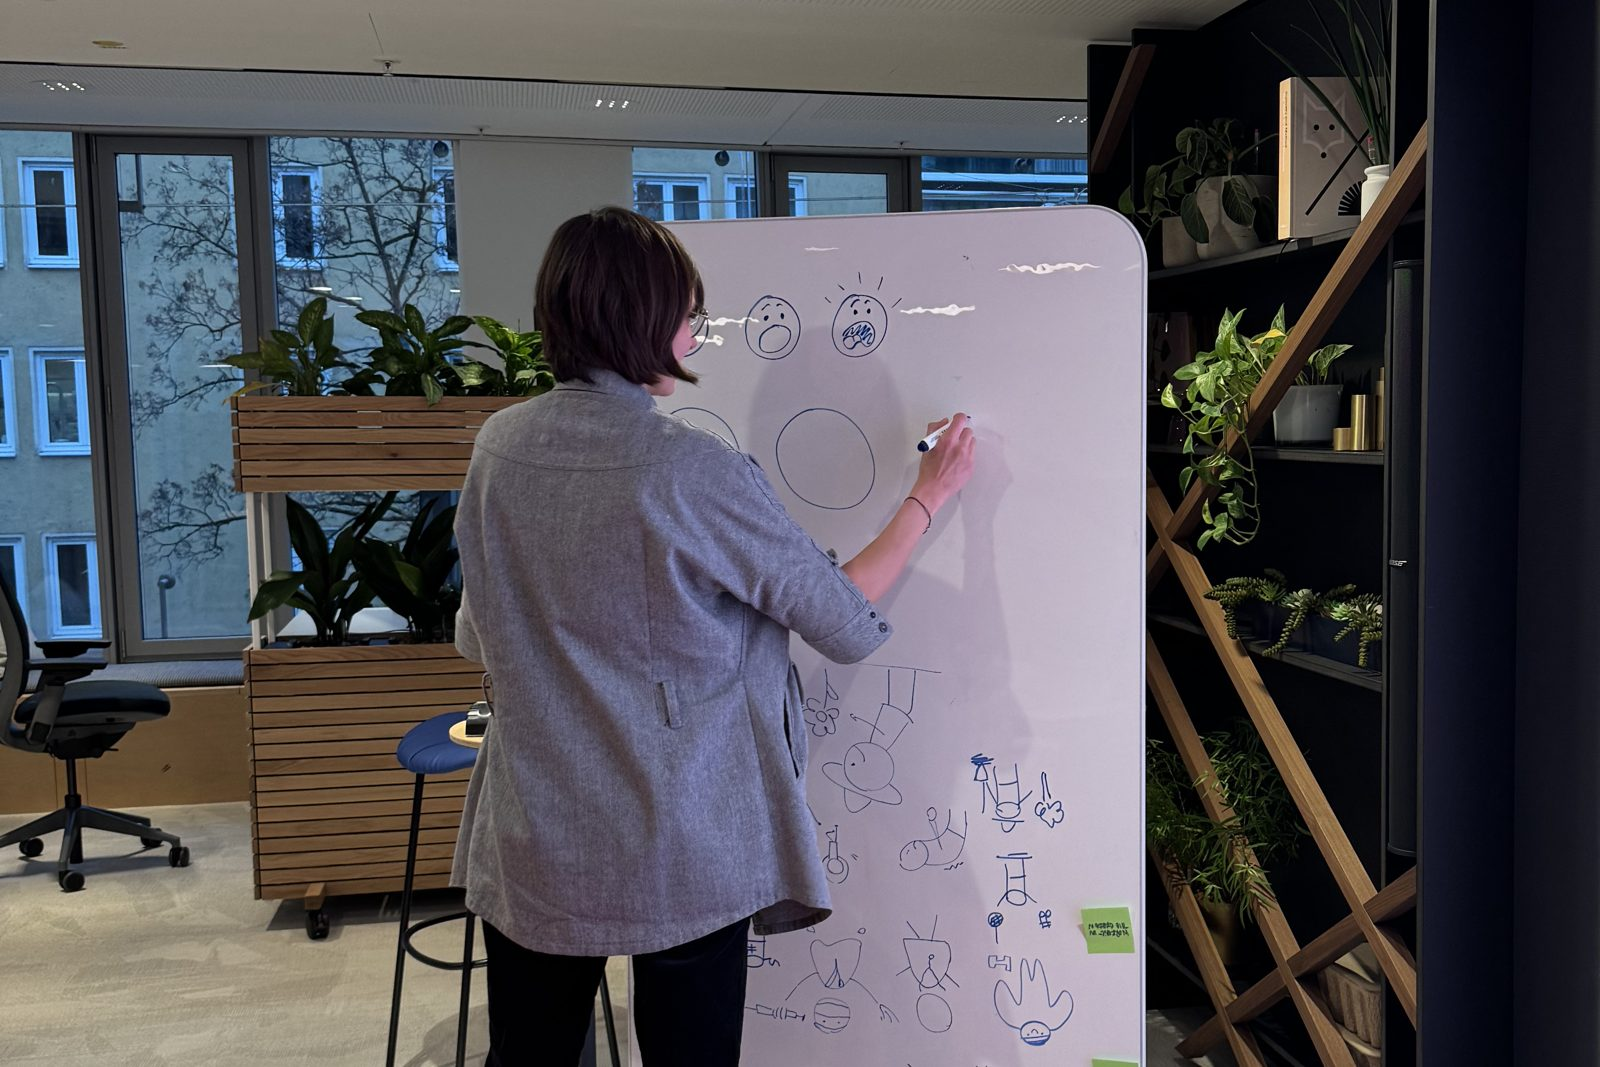
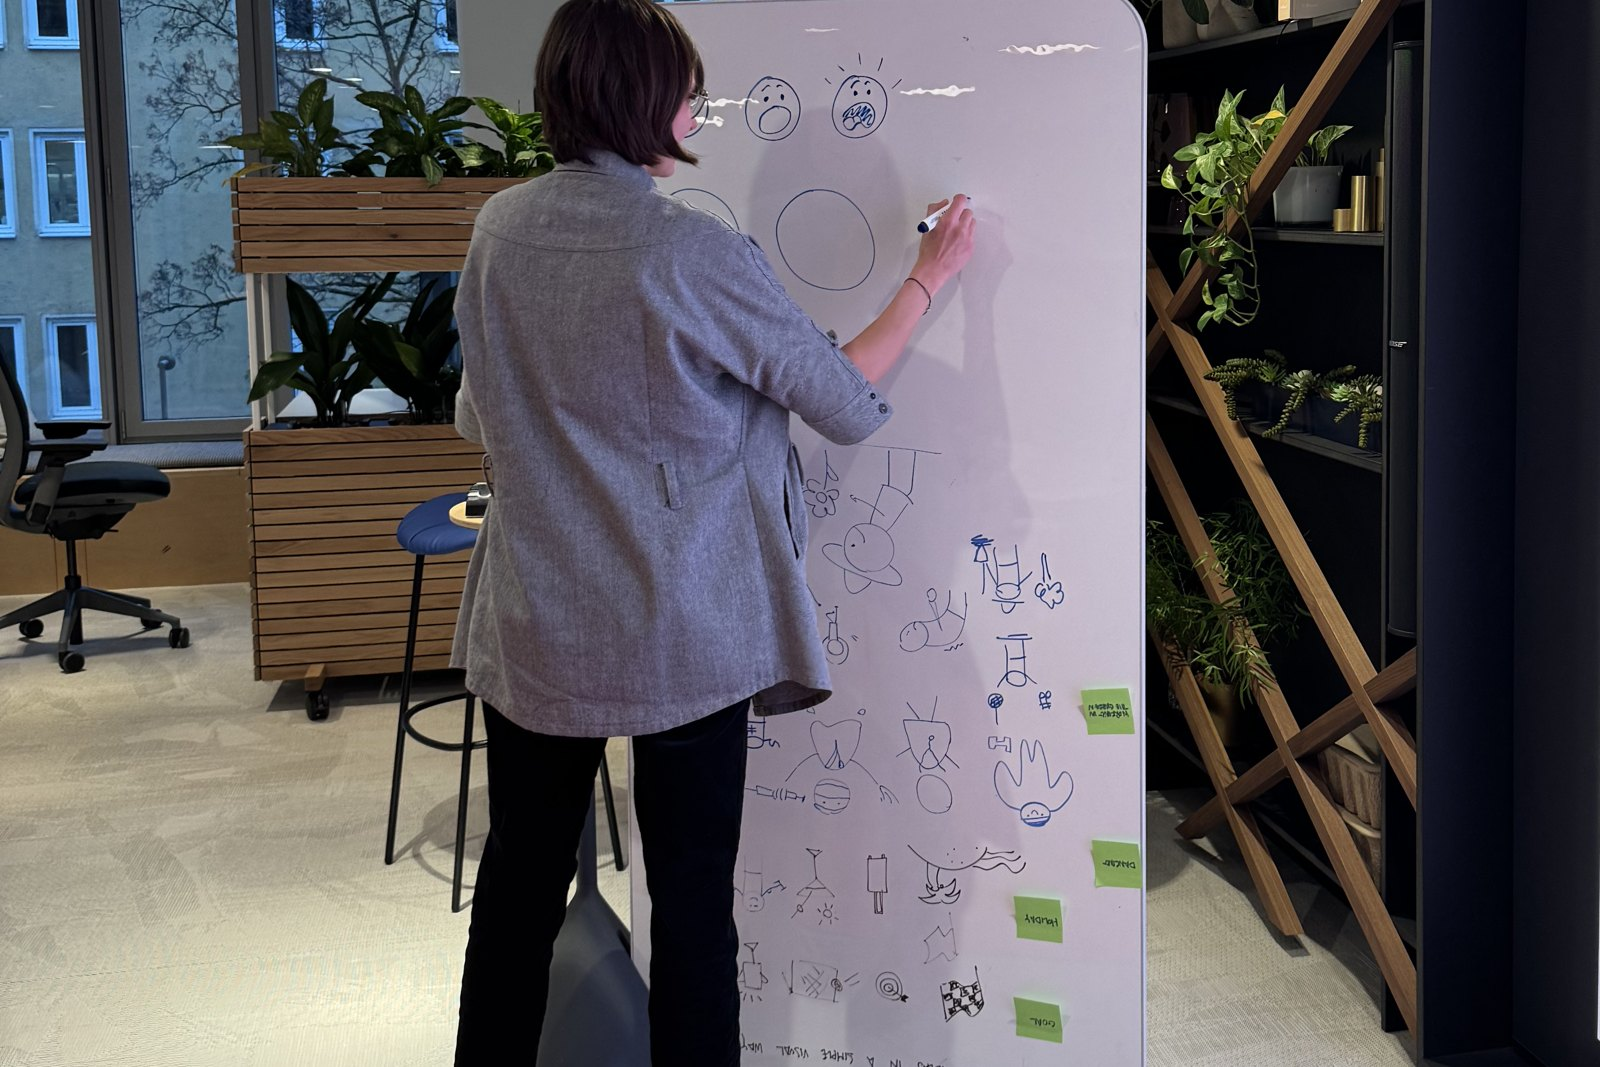
Publish site update

diff --git a/visual-thinking.html b/visual-thinking.html
@@ -116,9 +116,9 @@
         <div class="train-media">
           <div class="slideshow">
             <div class="slides">
-              <div class="slide is-active"><img src="images/projects/visual-thinking/drawing/slide-1.jpg?v=2" alt="Workshop title slide: communicating ideas in a simple, visual way" /></div>
+              <div class="slide is-active"><img src="images/projects/visual-thinking/drawing/slide-4.jpg?v=9" alt="Mana drawing on a flip chart during the workshop" /></div>
+              <div class="slide"><img src="images/projects/visual-thinking/drawing/slide-1.jpg?v=2" alt="Workshop title slide: communicating ideas in a simple, visual way" /></div>
               <div class="slide"><img src="images/projects/visual-thinking/drawing/slide-2.jpg?v=2" alt="Participants drawing together at a workshop table" /></div>
-              <div class="slide"><img src="images/projects/visual-thinking/drawing/slide-4.jpg?v=8" alt="Mana drawing on a flip chart during the workshop" /></div>
               <div class="slide"><img src="images/projects/visual-thinking/drawing/slide-5.jpg" alt="Mana drawing on the wall during the workshop" /></div>
               <div class="slide"><img src="images/projects/visual-thinking/drawing/slide-6.jpg" alt="Mana presenting the Visual Thinking and Drawing for Everyone session" /></div>
               <div class="slide"><img src="images/projects/visual-thinking/drawing/slide-7.jpg" alt="Participants at the workshop" /></div>